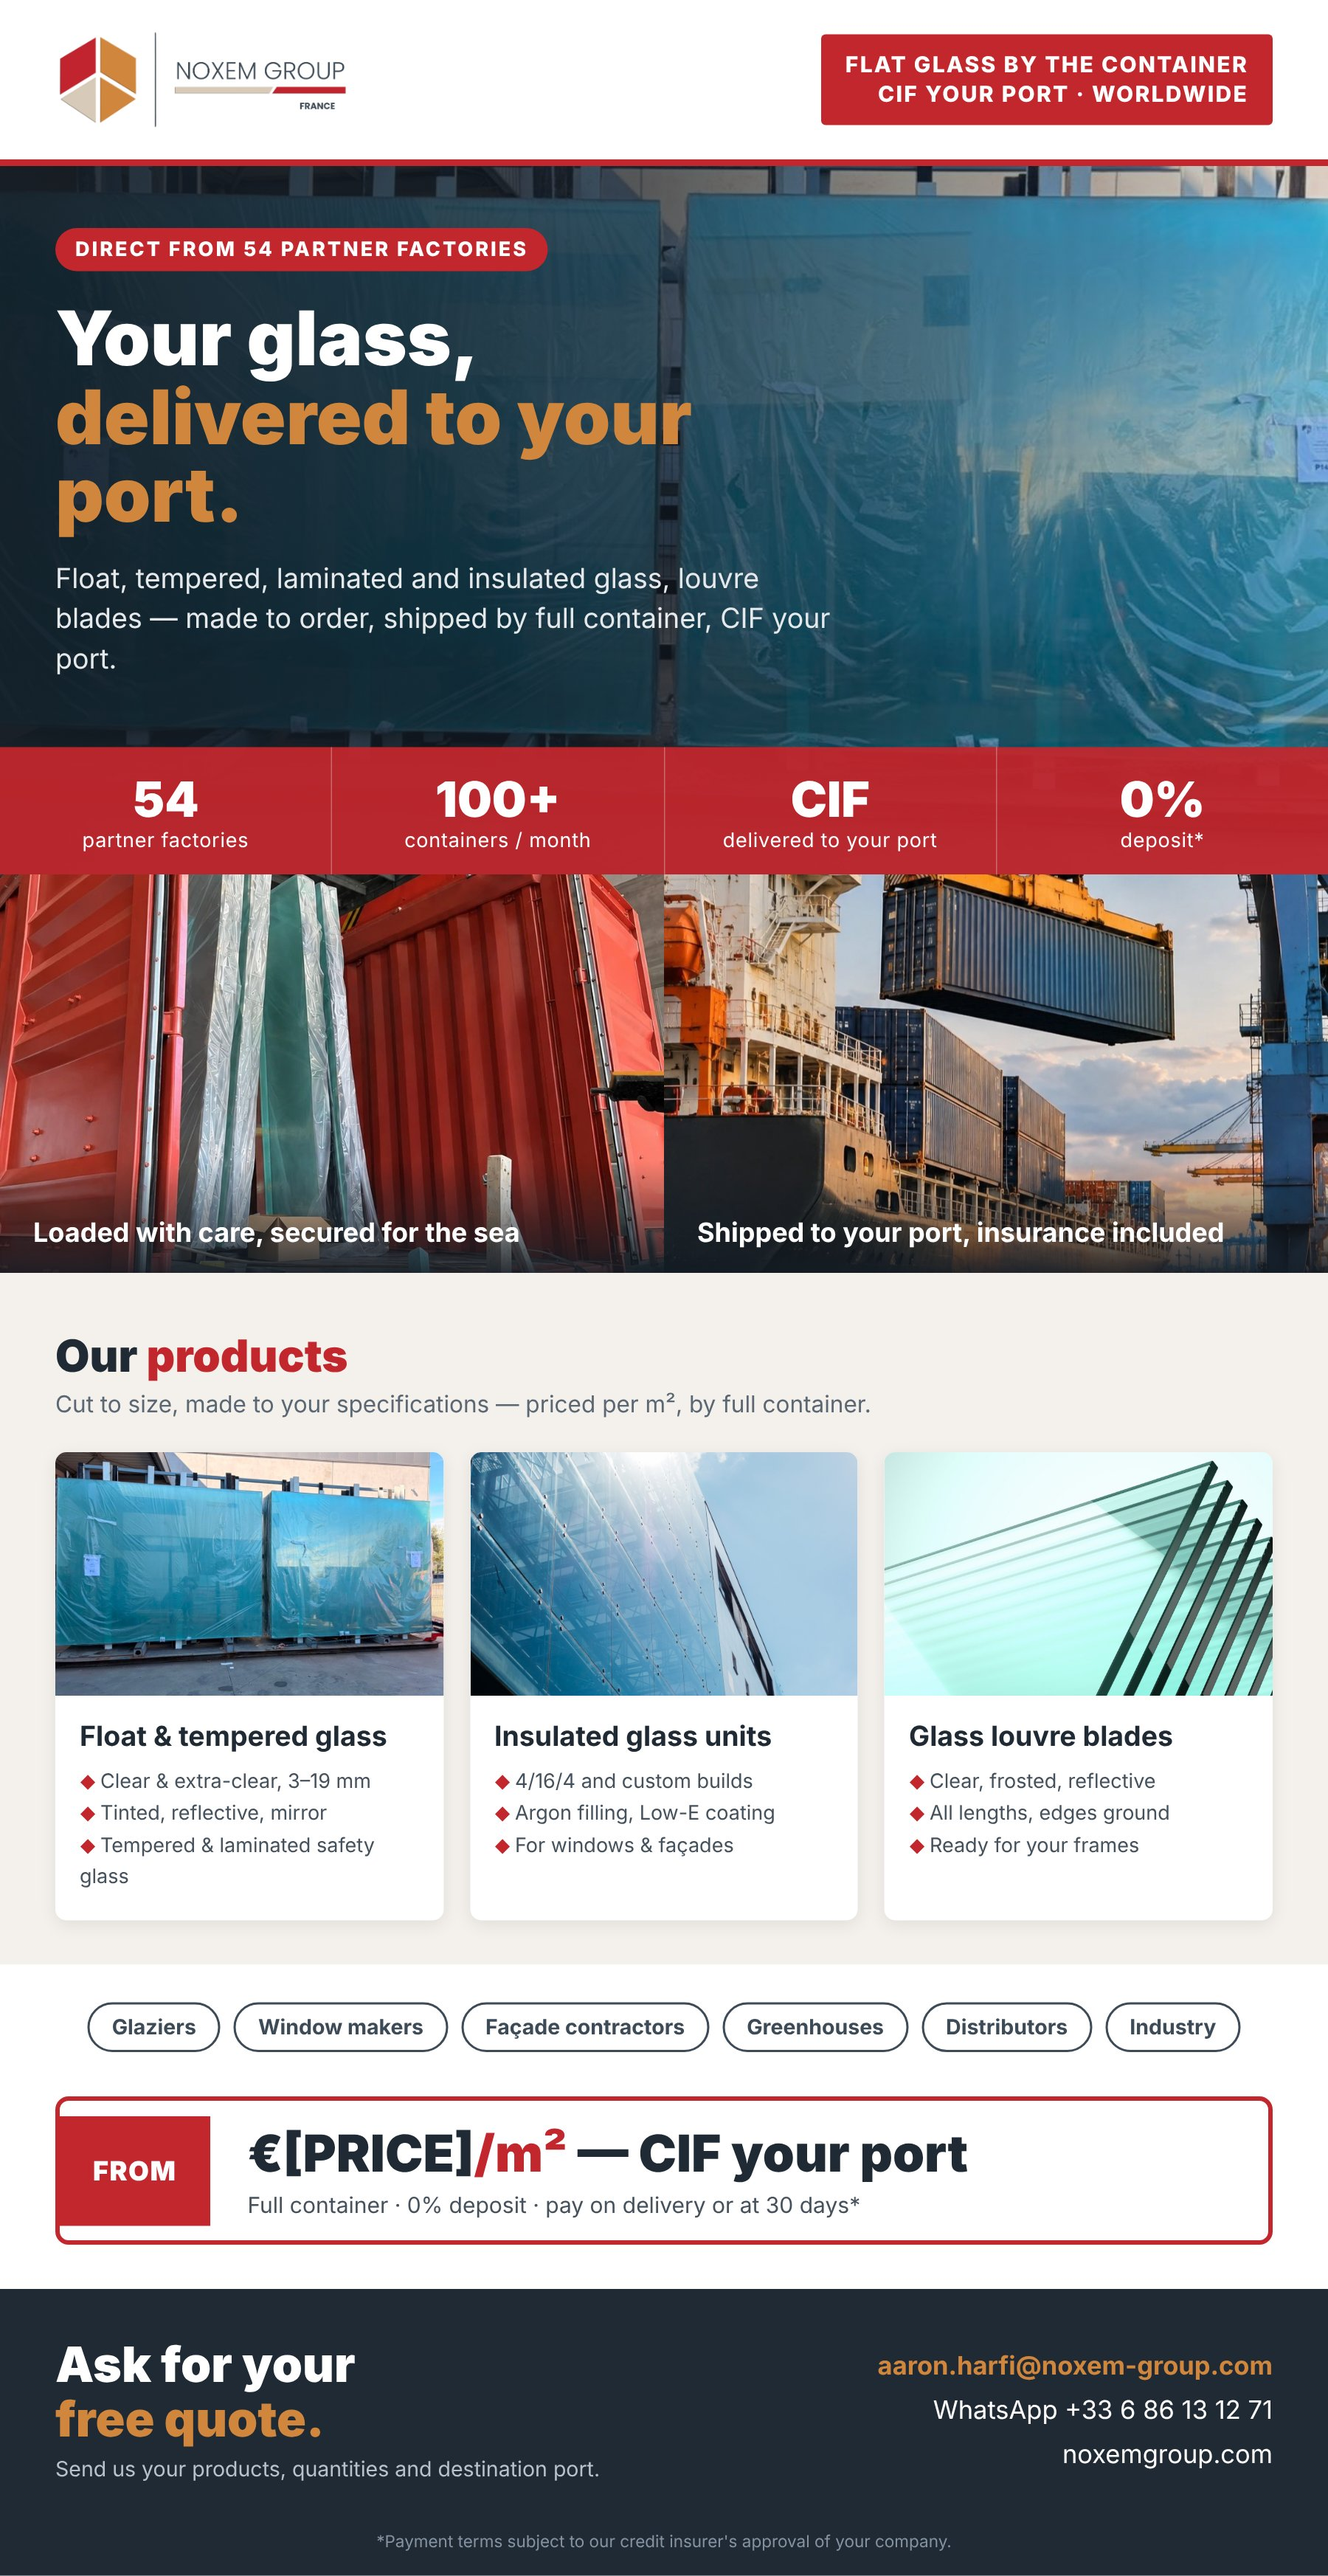
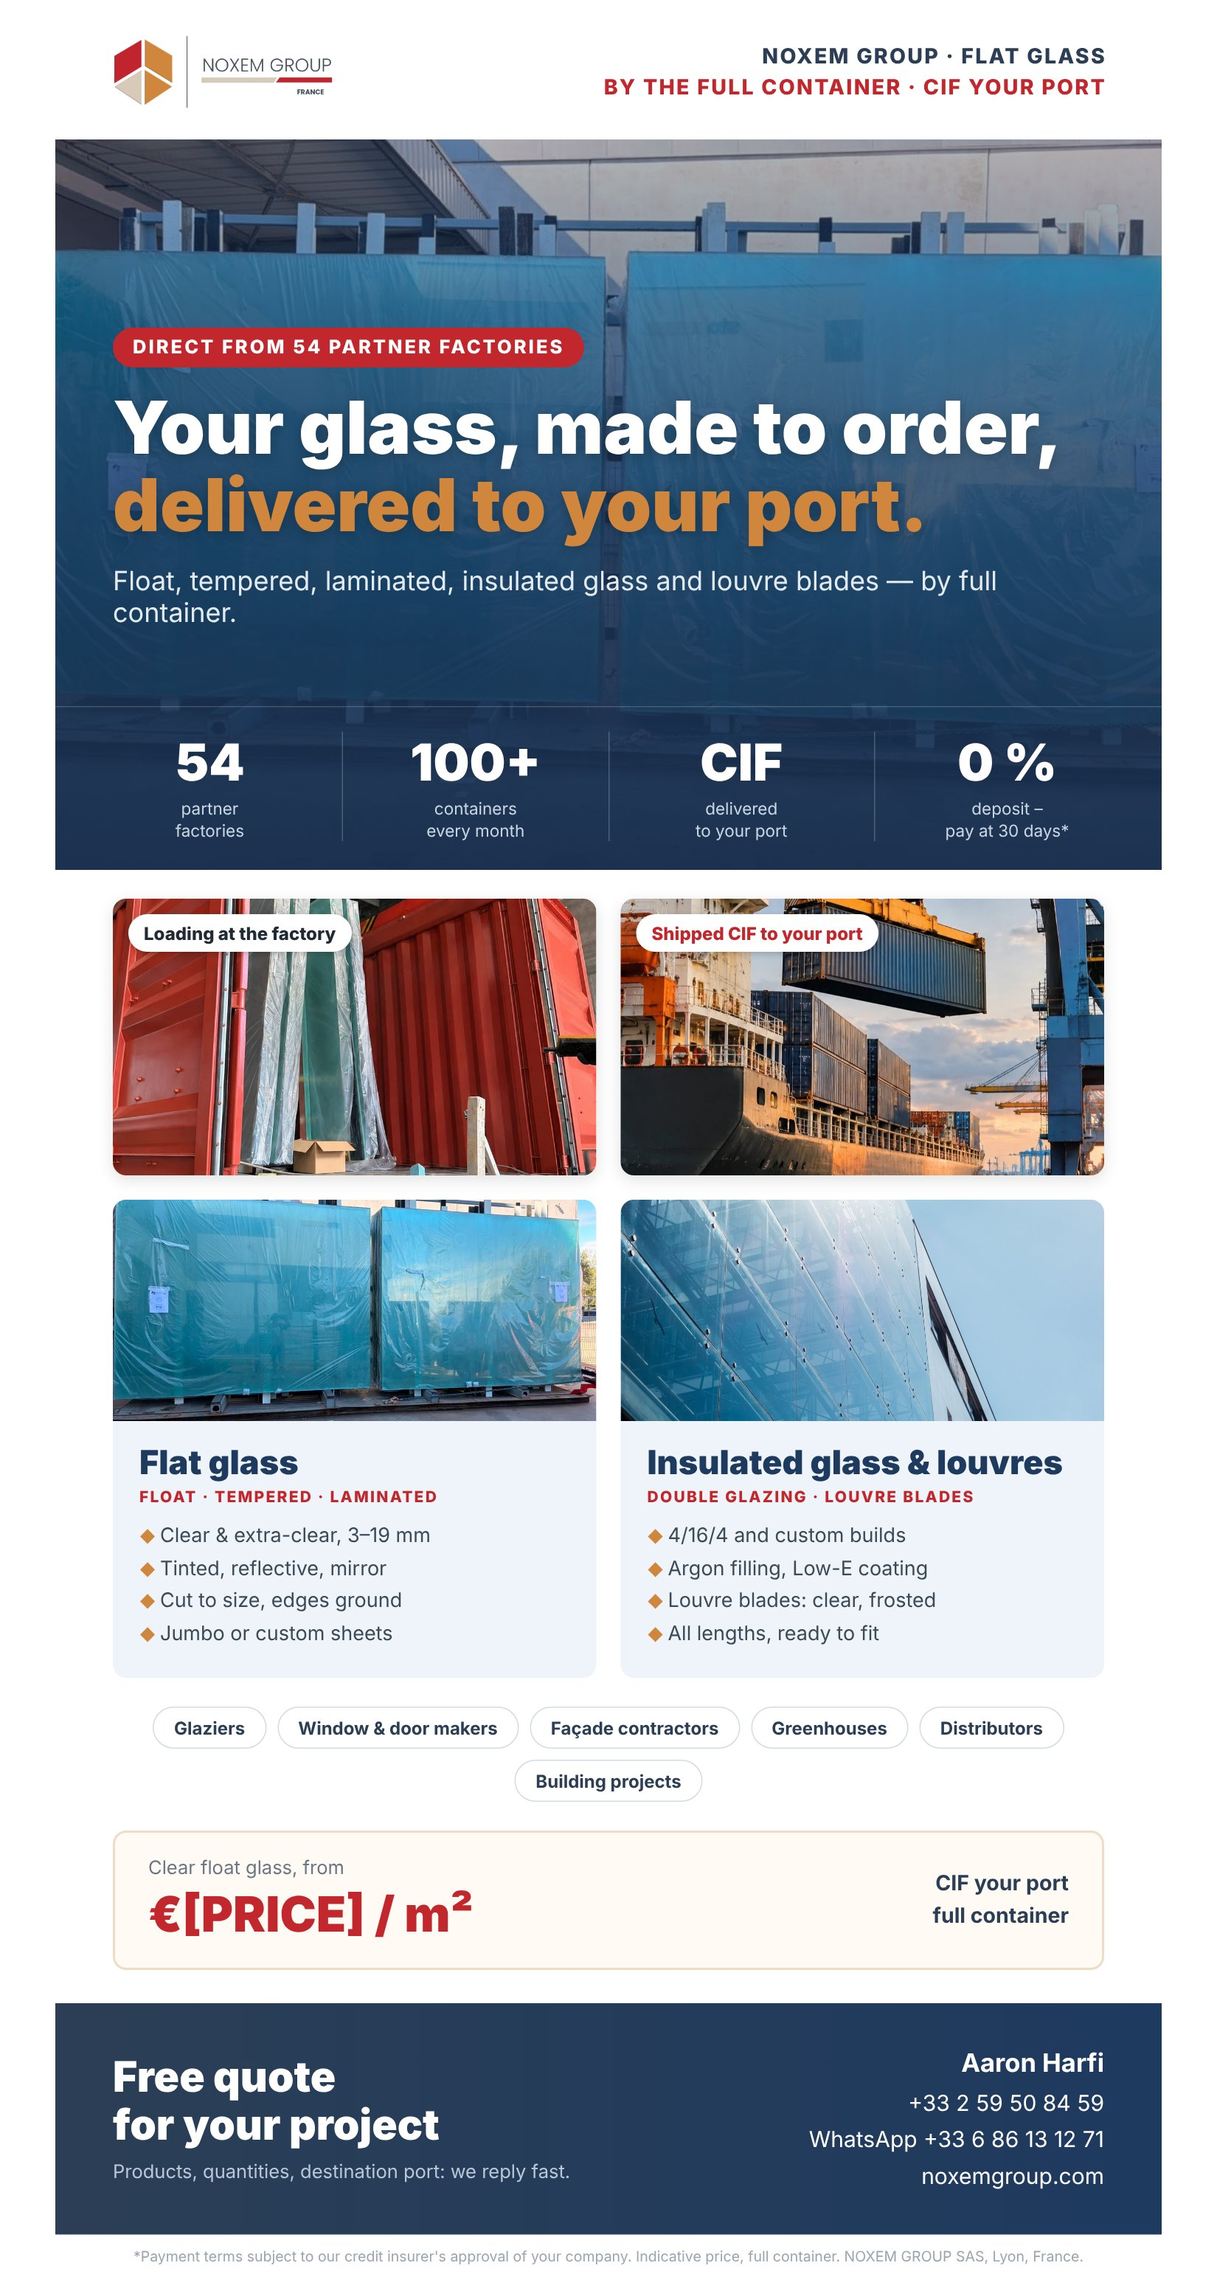
Flyer: bannière v3 calquée sur le modèle Cooleco
Claude-Session: https://claude.ai/code/session_01E71sSE3aZed5wbWWkEzUhp

diff --git a/flyer/banner.html b/flyer/banner.html
@@ -2,98 +2,89 @@
 <html lang="en"><head><meta charset="utf-8">
 <style>
 *{box-sizing:border-box;margin:0;padding:0}
-:root{--slate:#3d4a57;--dark:#1f2a35;--red:#c1272d;--orange:#d0873d;--beige:#d8c9b5;--light:#f4f1ec}
-body{width:1200px;font-family:"Helvetica Neue",Arial,sans-serif;background:#fff;color:var(--dark)}
-.head{display:flex;align-items:center;justify-content:space-between;padding:26px 50px;background:#fff;border-bottom:6px solid var(--red)}
-.head img{height:92px}
-.tag{background:var(--red);color:#fff;font-weight:800;letter-spacing:1.5px;font-size:20px;line-height:1.35;padding:14px 22px;text-align:right;border-radius:4px}
-.hero{position:relative;height:640px;background:url(ph/noxem-stock-3.jpg) center 60%/cover}
-.hero:before{content:"";position:absolute;inset:0;background:linear-gradient(90deg,rgba(20,28,36,.92) 0%,rgba(20,28,36,.72) 48%,rgba(20,28,36,.15) 100%)}
-.hin{position:absolute;left:50px;top:56px;width:720px;color:#fff}
-.pill{display:inline-block;background:var(--red);font-weight:800;font-size:18px;letter-spacing:2px;padding:9px 18px;border-radius:30px;margin-bottom:26px}
-.hin h1{font-size:68px;line-height:1.04;font-weight:900;margin-bottom:22px}
+:root{--navy:#1e3a5f;--slate:#2b3e55;--red:#c1272d;--orange:#d0873d;--ice:#eef4fa}
+body{width:1100px;font-family:"Helvetica Neue",Arial,sans-serif;background:#fff;color:#1f2a35;padding:30px 0 20px}
+.w{width:1000px;margin:0 auto}
+.head{display:flex;align-items:center;justify-content:space-between;padding:0 50px 26px}
+.head img{height:70px}
+.ht{text-align:right;font-weight:800;font-size:19px;letter-spacing:1.5px;line-height:1.45;color:var(--slate)}
+.ht span{color:var(--red)}
+.hero{position:relative;height:660px;background:url(ph/noxem-stock-3.jpg) center 55%/cover}
+.hero:before{content:"";position:absolute;inset:0;background:linear-gradient(180deg,rgba(30,58,95,.35) 0%,rgba(30,58,95,.78) 45%,rgba(24,46,76,.96) 100%)}
+.hin{position:absolute;left:52px;top:170px;right:52px;color:#fff}
+.pill{display:inline-block;background:var(--red);font-weight:800;font-size:17px;letter-spacing:2px;padding:8px 18px;border-radius:30px;margin-bottom:20px}
+.hin h1{font-size:66px;line-height:1.06;font-weight:900;margin-bottom:18px;text-shadow:0 2px 12px rgba(0,0,0,.25)}
 .hin h1 span{color:var(--orange)}
-.hin p{font-size:25px;line-height:1.45;color:#e6e9ec}
-.kpis{position:absolute;left:0;right:0;bottom:0;display:flex;background:rgba(193,39,45,.95)}
-.kpi{flex:1;text-align:center;color:#fff;padding:20px 8px;border-right:1px solid rgba(255,255,255,.3)}
+.hin p{font-size:24px;color:#e3eaf2}
+.kpis{position:absolute;left:0;right:0;bottom:0;display:flex;padding:22px 20px 26px;border-top:1px solid rgba(255,255,255,.18)}
+.kpi{flex:1;text-align:center;color:#fff;border-right:1px solid rgba(255,255,255,.22)}
 .kpi:last-child{border:none}
-.kpi b{display:block;font-size:44px;font-weight:900}
-.kpi span{font-size:18px;letter-spacing:.5px}
-.duo{display:flex;gap:0}
-.duo div{flex:1;height:360px;position:relative;background-size:cover;background-position:center}
-.duo div span{position:absolute;left:0;bottom:0;right:0;background:linear-gradient(0deg,rgba(20,28,36,.9),rgba(20,28,36,0));color:#fff;font-size:24px;font-weight:700;padding:50px 30px 22px}
-.sec{background:var(--light);padding:50px 50px 40px}
-.sec h2{font-size:40px;font-weight:900;margin-bottom:8px}
-.sec h2 span{color:var(--red)}
-.sub{font-size:21px;color:#5b6773;margin-bottom:30px}
-.prods{display:grid;grid-template-columns:repeat(3,1fr);gap:24px}
-.prod{background:#fff;border-radius:10px;overflow:hidden;box-shadow:0 4px 16px rgba(0,0,0,.08)}
-.prod .ph{height:220px;background-size:cover;background-position:center}
-.prod .tx{padding:22px 22px 24px}
-.prod h3{font-size:25px;margin-bottom:12px;color:var(--dark)}
-.prod ul{list-style:none;font-size:18px;color:#45515c;line-height:1.6}
-.prod li:before{content:"◆ ";color:var(--red);font-size:14px}
-.tags{display:flex;flex-wrap:wrap;gap:12px;justify-content:center;padding:34px 50px 10px;background:#fff}
-.tags span{border:2px solid var(--slate);color:var(--slate);font-weight:700;font-size:19px;padding:9px 20px;border-radius:30px}
-.price{margin:30px 50px 40px;border:4px solid var(--red);border-radius:12px;display:flex;align-items:center;overflow:hidden}
-.price .l{background:var(--red);color:#fff;font-weight:900;font-size:24px;padding:34px 30px;letter-spacing:1px;line-height:1.3;text-align:center}
-.price .r{padding:20px 34px}
-.price .r b{font-size:46px;font-weight:900;color:var(--dark)}
-.price .r b span{color:var(--red)}
-.price .r p{font-size:20px;color:#45515c;margin-top:6px}
-.cta{background:var(--dark);color:#fff;padding:44px 50px;display:flex;align-items:center;justify-content:space-between}
-.cta h2{font-size:44px;font-weight:900;line-height:1.1}
-.cta h2 span{color:var(--orange)}
-.cta p{font-size:19px;color:#b9c2ca;margin-top:10px}
-.ct{text-align:right;font-size:23px;line-height:1.75}
-.ct b{color:var(--orange)}
-.note{background:var(--dark);color:#8592a0;font-size:15px;text-align:center;padding:0 50px 22px}
-</style></head><body>
+.kpi b{display:block;font-size:46px;font-weight:900}
+.kpi span{font-size:15px;color:#c9d6e4;line-height:1.3;display:block;margin-top:4px}
+.duo{display:flex;gap:22px;padding:26px 52px 0}
+.duo div{flex:1;height:250px;border-radius:12px;position:relative;background-size:cover;background-position:center;box-shadow:0 4px 14px rgba(0,0,0,.12)}
+.duo span{position:absolute;left:14px;top:14px;background:#fff;color:#1f2a35;font-weight:800;font-size:16px;padding:7px 14px;border-radius:20px;box-shadow:0 2px 6px rgba(0,0,0,.2)}
+.duo span.r{color:var(--red)}
+.prods{display:flex;gap:22px;padding:22px 52px 0}
+.prod{flex:1;background:var(--ice);border-radius:12px;overflow:hidden}
+.prod .ph{height:200px;background-size:cover;background-position:center}
+.prod .tx{padding:20px 24px 24px}
+.prod h3{font-size:30px;font-weight:900;color:var(--navy)}
+.prod .cat{font-size:14px;font-weight:800;letter-spacing:1.5px;color:var(--red);margin:4px 0 12px}
+.prod ul{list-style:none;font-size:18px;color:#3c4a58;line-height:1.65}
+.prod li:before{content:"◆ ";color:var(--orange);font-size:14px}
+.tags{display:flex;flex-wrap:wrap;gap:10px;justify-content:center;padding:26px 70px 0}
+.tags span{border:1.5px solid #d3dbe4;color:#2b3e55;font-weight:700;font-size:16px;padding:8px 18px;border-radius:20px}
+.price{margin:26px 52px 0;border:2px solid #f0dcc6;background:#fffaf4;border-radius:12px;display:flex;align-items:center;justify-content:space-between;padding:22px 30px}
+.price small{display:block;font-size:17px;color:#6b7785;margin-bottom:4px}
+.price b{font-size:44px;font-weight:900;color:var(--red)}
+.price .rt{text-align:right;font-size:19px;font-weight:700;color:#2b3e55;line-height:1.5}
+.cta{margin-top:30px;background:linear-gradient(90deg,var(--slate),var(--navy));color:#fff;padding:36px 52px;display:flex;align-items:center;justify-content:space-between}
+.cta h2{font-size:38px;font-weight:900;line-height:1.15}
+.cta p{font-size:17px;color:#b9c8d8;margin-top:10px}
+.ct{text-align:right;font-size:20px;line-height:1.65}
+.ct b{font-size:23px}
+.note{font-size:13px;color:#9aa5b1;text-align:center;padding:12px 40px 0}
+</style></head><body><div class="w">
 <div class="head">
   <img src="logo.png" alt="NOXEM GROUP">
-  <div class="tag">FLAT GLASS BY THE CONTAINER<br>CIF YOUR PORT · WORLDWIDE</div>
+  <div class="ht">NOXEM GROUP · FLAT GLASS<br><span>BY THE FULL CONTAINER · CIF YOUR PORT</span></div>
 </div>
 <div class="hero">
   <div class="hin">
     <div class="pill">DIRECT FROM 54 PARTNER FACTORIES</div>
-    <h1>Your glass,<br><span>delivered to your port.</span></h1>
-    <p>Float, tempered, laminated and insulated glass, louvre blades — made to order, shipped by full container, CIF your port.</p>
+    <h1>Your glass, made to order,<br><span>delivered to your port.</span></h1>
+    <p>Float, tempered, laminated, insulated glass and louvre blades — by full container.</p>
   </div>
   <div class="kpis">
-    <div class="kpi"><b>54</b><span>partner factories</span></div>
-    <div class="kpi"><b>100+</b><span>containers / month</span></div>
-    <div class="kpi"><b>CIF</b><span>delivered to your port</span></div>
-    <div class="kpi"><b>0%</b><span>deposit*</span></div>
+    <div class="kpi"><b>54</b><span>partner<br>factories</span></div>
+    <div class="kpi"><b>100+</b><span>containers<br>every month</span></div>
+    <div class="kpi"><b>CIF</b><span>delivered<br>to your port</span></div>
+    <div class="kpi"><b>0 %</b><span>deposit –<br>pay at 30 days*</span></div>
   </div>
 </div>
 <div class="duo">
-  <div style="background-image:url(ph/noxem-chargement-03.jpg)"><span>Loaded with care, secured for the sea</span></div>
-  <div style="background-image:url(ph/porte-conteneurs-quai-grue-depart.jpg)"><span>Shipped to your port, insurance included</span></div>
+  <div style="background-image:url(ph/noxem-chargement-03.jpg)"><span>Loading at the factory</span></div>
+  <div style="background-image:url(ph/porte-conteneurs-quai-grue-depart.jpg)"><span class="r">Shipped CIF to your port</span></div>
 </div>
-<div class="sec">
-  <h2>Our <span>products</span></h2>
-  <div class="sub">Cut to size, made to your specifications — priced per m², by full container.</div>
-  <div class="prods">
-    <div class="prod"><div class="ph" style="background-image:url(ph/noxem-stock-1.jpg)"></div>
-      <div class="tx"><h3>Float &amp; tempered glass</h3><ul><li>Clear &amp; extra-clear, 3–19 mm</li><li>Tinted, reflective, mirror</li><li>Tempered &amp; laminated safety glass</li></ul></div></div>
-    <div class="prod"><div class="ph" style="background-image:url(ph/modern-glass-building-with-blue-sky-2026-03-25-22-46-39-utc-scaled.jpg)"></div>
-      <div class="tx"><h3>Insulated glass units</h3><ul><li>4/16/4 and custom builds</li><li>Argon filling, Low-E coating</li><li>For windows &amp; façades</li></ul></div></div>
-    <div class="prod"><div class="ph" style="background-image:url(ph/wide-angle-abstract-background-with-stack-of-flat-2026-03-19-04-29-13-utc-scaled.jpg)"></div>
-      <div class="tx"><h3>Glass louvre blades</h3><ul><li>Clear, frosted, reflective</li><li>All lengths, edges ground</li><li>Ready for your frames</li></ul></div></div>
-  </div>
+<div class="prods">
+  <div class="prod"><div class="ph" style="background-image:url(ph/noxem-stock-1.jpg)"></div>
+    <div class="tx"><h3>Flat glass</h3><div class="cat">FLOAT · TEMPERED · LAMINATED</div>
+    <ul><li>Clear &amp; extra-clear, 3–19 mm</li><li>Tinted, reflective, mirror</li><li>Cut to size, edges ground</li><li>Jumbo or custom sheets</li></ul></div></div>
+  <div class="prod"><div class="ph" style="background-image:url(ph/modern-glass-building-with-blue-sky-2026-03-25-22-46-39-utc-scaled.jpg)"></div>
+    <div class="tx"><h3>Insulated glass &amp; louvres</h3><div class="cat">DOUBLE GLAZING · LOUVRE BLADES</div>
+    <ul><li>4/16/4 and custom builds</li><li>Argon filling, Low-E coating</li><li>Louvre blades: clear, frosted</li><li>All lengths, ready to fit</li></ul></div></div>
 </div>
 <div class="tags">
-  <span>Glaziers</span><span>Window makers</span><span>Façade contractors</span><span>Greenhouses</span><span>Distributors</span><span>Industry</span>
+  <span>Glaziers</span><span>Window &amp; door makers</span><span>Façade contractors</span><span>Greenhouses</span><span>Distributors</span><span>Building projects</span>
 </div>
 <div class="price">
-  <div class="l">FROM</div>
-  <div class="r"><b>€[PRICE]<span>/m²</span> — CIF your port</b>
-    <p>Full container · 0% deposit · pay on delivery or at 30 days*</p></div>
+  <div><small>Clear float glass, from</small><b>€[PRICE] / m²</b></div>
+  <div class="rt">CIF your port<br>full container</div>
 </div>
 <div class="cta">
-  <div><h2>Ask for your<br><span>free quote.</span></h2>
-    <p>Send us your products, quantities and destination port.</p></div>
-  <div class="ct"><b>aaron.harfi@noxem-group.com</b><br>WhatsApp +33 6 86 13 12 71<br>noxemgroup.com</div>
+  <div><h2>Free quote<br>for your project</h2><p>Products, quantities, destination port: we reply fast.</p></div>
+  <div class="ct"><b>Aaron Harfi</b><br>+33 2 59 50 84 59<br>WhatsApp +33 6 86 13 12 71<br>noxemgroup.com</div>
 </div>
-<div class="note">*Payment terms subject to our credit insurer's approval of your company.</div>
-</body></html>
+<div class="note">*Payment terms subject to our credit insurer's approval of your company. Indicative price, full container. NOXEM GROUP SAS, Lyon, France.</div>
+</div></body></html>
